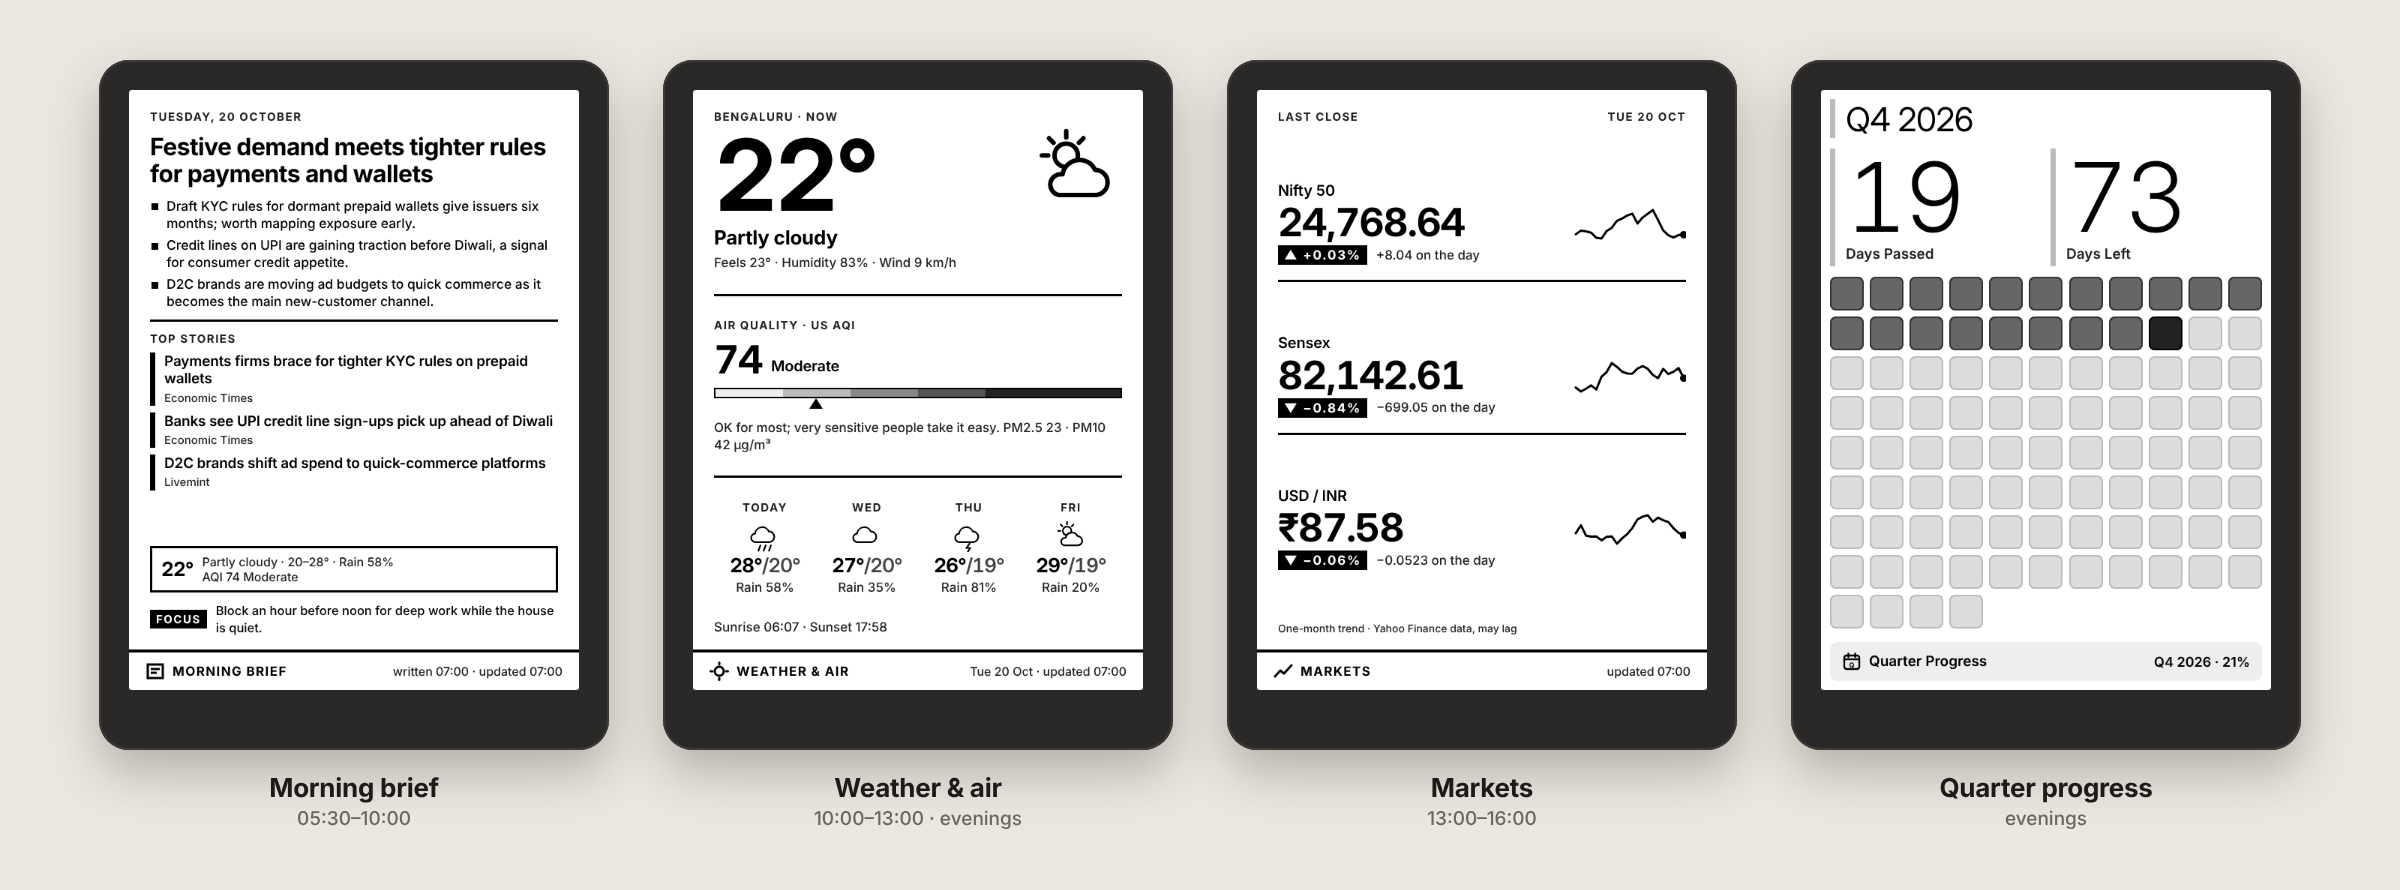
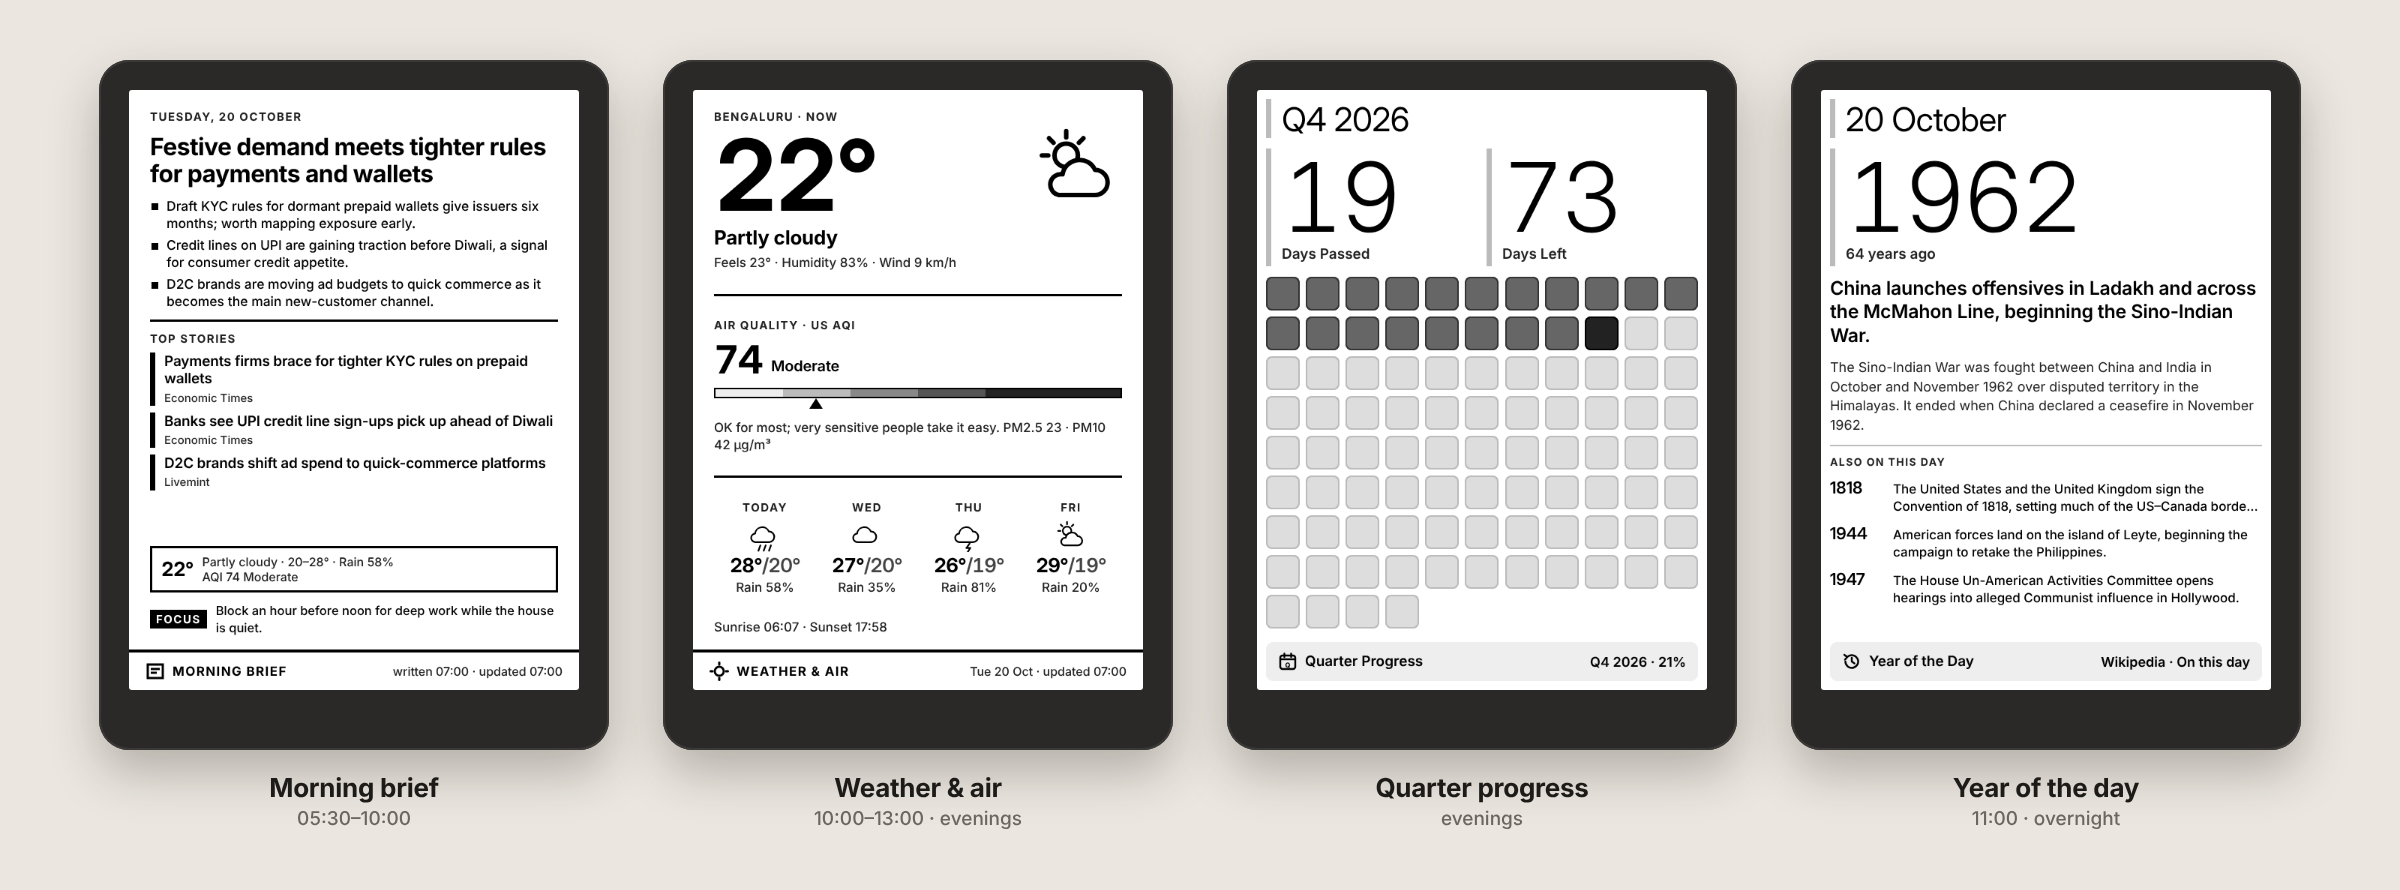
Add Year of the Day screen (TRMNL recipe equivalent, text version)
A year in history from Wikipedia's On this day feed (api.wikimedia.org, falling
back to en.wikipedia.org), picked once per day, with background and other years
for the same date. Optional 'prefer' keywords. Shows 11:xx and 23:xx; the 23:37
screen stays up overnight.

Shared clean-style classes (stripe, thin numbers, rounded title bar) moved to
screen.css; Quarter Progress renders identically. strip_html no longer leaves a
space before punctuation after inline tags.

Claude-Session: https://claude.ai/code/session_01GcKyYFsaBsPuGYxqe3XuTx

diff --git a/templates/screen.css b/templates/screen.css
@@ -48,3 +48,16 @@ html, body { width: var(--w); height: var(--h); background: var(--paper); color:
 .bullets { list-style: none; display: flex; flex-direction: column; gap: 9px; }
 .bullets li { position: relative; padding-left: 22px; font-size: 18.5px; font-weight: 500; line-height: 1.32; }
 .bullets li::before { content: ""; position: absolute; left: 2px; top: .5em; width: 9px; height: 9px; background: var(--ink); }
+
+/* "Clean" style, after TRMNL's recipes: thin stripes, big light numbers, rounded title bar.
+   Used by quarter_progress and year_of_the_day. */
+.layout--clean { padding: 12px 12px 0; gap: 14px; }
+.stripe { display: flex; gap: 14px; }
+.stripe::before { content: ""; width: 7px; flex: none; background: #bbb; }
+.heading { font: 400 44px/1.05 "Inter Display", Inter, sans-serif; letter-spacing: -.01em; padding: 4px 0 2px; }
+.value--thin { font: 300 128px/.92 "Inter Display", Inter, sans-serif; letter-spacing: -.035em;
+  font-variant-numeric: tabular-nums; padding-top: 6px; }
+.caption { font: 600 19px/1.2 Inter, sans-serif; color: #222; padding: 6px 0 4px; }
+.title_bar--pill { margin: 0 12px 12px; height: 52px; border-top: 0; border-radius: 10px; background: #e6e6e6; padding: 0 16px; }
+.title_bar--pill .title { font-size: 19px; font-weight: 600; text-transform: none; letter-spacing: 0; }
+.title_bar--pill .instance { font-size: 18px; font-weight: 600; color: #000; }

diff --git a/plugins/year_of_the_day/fetch.py b/plugins/year_of_the_day/fetch.py
@@ -1,0 +1,67 @@
+"""Year of the Day: one year in history picked from Wikipedia's "On this day" events for today's date.
+
+Equivalent of TRMNL's "Year of the Day" recipe (text mode). Data: Wikimedia's free feed API, no key.
+The pick is seeded by the date, so every refresh that day shows the same year.
+"""
+import random
+
+from core import fmt
+
+SOURCES = [
+    "https://api.wikimedia.org/feed/v1/wikipedia/en/onthisday/events/{mm}/{dd}",
+    "https://en.wikipedia.org/api/rest_v1/feed/onthisday/events/{mm}/{dd}",
+]
+
+
+def _year_label(y: int) -> str:
+    return f"{-y} BC" if y < 0 else str(y)
+
+
+def _clean(event: dict) -> dict | None:
+    year, text = event.get("year"), fmt.strip_html(event.get("text", ""))
+    if not isinstance(year, int) or not text:
+        return None
+    page = next((p for p in event.get("pages") or [] if p.get("extract")), {})
+    return {"year": year, "label": _year_label(year), "text": text,
+            "page": fmt.strip_html((page.get("titles") or {}).get("normalized") or page.get("title", "")),
+            "extract": fmt.strip_html(page.get("extract", ""), 460)}
+
+
+def _load(ctx) -> dict:
+    if ctx.demo:
+        return ctx.fixture("onthisday_events.json")
+    mm, dd = ctx.now.strftime("%m"), ctx.now.strftime("%d")
+    last = None
+    for url in SOURCES:
+        try:
+            return ctx.get_json(url.format(mm=mm, dd=dd), retries=1)
+        except Exception as e:  # try the next source
+            last = e
+    raise RuntimeError(f"On this day feed unavailable: {last}")
+
+
+def fetch(ctx):
+    events = [e for e in (_clean(x) for x in _load(ctx).get("events", [])) if e and e["year"] <= ctx.now.year]
+    if not events:
+        return {"available": False, "error": "no events for today"}
+    rng = random.Random(ctx.today)                  # same pick for the whole day
+    with_extract = [e for e in events if e["extract"]] or events
+    prefer = [w.lower() for w in ctx.settings.get("prefer") or []]
+    preferred = [e for e in with_extract if any(w in (e["text"] + " " + e["extract"]).lower() for w in prefer)]
+    main = rng.choice(preferred or with_extract)
+
+    rest = [e for e in events if e["year"] != main["year"]]
+    rng.shuffle(rest)
+    others, seen = [], {main["year"]}
+    for e in rest:
+        if e["year"] not in seen:
+            others.append(e)
+            seen.add(e["year"])
+        if len(others) == int(ctx.settings.get("also_count", 3)):
+            break
+    return {
+        "available": True,
+        "date_long": ctx.now.strftime("%-d %B"),
+        "main": {**main, "ago": ctx.now.year - main["year"] - (1 if main["year"] < 0 else 0)},  # no year 0
+        "others": sorted(others, key=lambda e: e["year"]),
+    }

diff --git a/core/render.py b/core/render.py
@@ -21,6 +21,7 @@ GLYPHS = {  # small title-bar icons
     "morning_brief": '<svg class="glyph" viewBox="0 0 26 26"><rect x="3" y="4" width="20" height="18" fill="none" stroke="#000" stroke-width="3"/><line x1="7" y1="10" x2="19" y2="10" stroke="#000" stroke-width="3"/><line x1="7" y1="15" x2="15" y2="15" stroke="#000" stroke-width="3"/></svg>',
     "weather_aqi": '<svg class="glyph" viewBox="0 0 26 26"><circle cx="13" cy="13" r="6" fill="none" stroke="#000" stroke-width="3"/><g stroke="#000" stroke-width="3" stroke-linecap="round"><line x1="13" y1="1.5" x2="13" y2="4"/><line x1="13" y1="22" x2="13" y2="24.5"/><line x1="1.5" y1="13" x2="4" y2="13"/><line x1="22" y1="13" x2="24.5" y2="13"/></g></svg>',
     "quarter_progress": '<svg class="glyph" viewBox="0 0 26 26"><rect x="3" y="5" width="20" height="18" rx="3" fill="none" stroke="#000" stroke-width="2.4"/><line x1="3" y1="10" x2="23" y2="10" stroke="#000" stroke-width="2.4"/><line x1="8.5" y1="2.5" x2="8.5" y2="7" stroke="#000" stroke-width="2.4" stroke-linecap="round"/><line x1="17.5" y1="2.5" x2="17.5" y2="7" stroke="#000" stroke-width="2.4" stroke-linecap="round"/><text x="13" y="20.6" text-anchor="middle" font-family="Inter" font-weight="700" font-size="9">Q</text></svg>',
+    "year_of_the_day": '<svg class="glyph" viewBox="0 0 26 26"><path d="M4.5 13a8.5 8.5 0 1 0 2.5-6" fill="none" stroke="#000" stroke-width="2.4" stroke-linecap="round"/><polyline points="3,4 7,7 4,10.5" fill="none" stroke="#000" stroke-width="2.4" stroke-linecap="round" stroke-linejoin="round"/><polyline points="13,8 13,13 16.5,15.5" fill="none" stroke="#000" stroke-width="2.4" stroke-linecap="round" stroke-linejoin="round"/></svg>',
     "markets": '<svg class="glyph" viewBox="0 0 26 26"><polyline points="2,20 9,12 14,16 24,5" fill="none" stroke="#000" stroke-width="3" stroke-linejoin="round" stroke-linecap="round"/></svg>',
 }
 

diff --git a/tools/docs_images.py b/tools/docs_images.py
@@ -23,7 +23,9 @@ TMP = ROOT / "build" / "docs"
 SCREENS = [("morning_brief", "Morning brief", "05:30–10:00"),
            ("weather_aqi", "Weather & air", "10:00–13:00 · evenings"),
            ("markets", "Markets", "13:00–16:00"),
-           ("quarter_progress", "Quarter progress", "evenings")]
+           ("quarter_progress", "Quarter progress", "evenings"),
+           ("year_of_the_day", "Year of the day", "11:00 · overnight")]
+HERO = ["morning_brief", "weather_aqi", "quarter_progress", "year_of_the_day"]  # 4 fit the README width
 
 
 def run_build(out: str, at: str, extra_env: dict | None = None) -> Path:
@@ -84,7 +86,7 @@ def main() -> None:
     screens = {name: site / "screens" / f"{name}.png" for name, _, _ in SCREENS}
 
     # 1. Hero: three devices side by side
-    shoot(page("".join(device(screens[n], t, s, scale=0.75) for n, t, s in SCREENS), gap=54, pad=60),
+    shoot(page("".join(device(screens[n], t, s, scale=0.75) for n, t, s in SCREENS if n in HERO), gap=54, pad=60),
           OUT / "hero.png", 2400)
 
     # 2. Raw screens exactly as the Kindle gets them (600x800, 16 greys)

diff --git a/core/fmt.py b/core/fmt.py
@@ -18,7 +18,8 @@ def indian(n: float, decimals: int = 2) -> str:
 
 
 def strip_html(text: str, limit: int = 0) -> str:
-    text = html.unescape(re.sub(r"<[^>]+>", " ", text or ""))
+    text = re.sub(r"<(?:br|/?p|/?div|/?li|/?h\d)\b[^>]*>", " ", text or "", flags=re.I)  # block tags -> space
+    text = html.unescape(re.sub(r"<[^>]+>", "", text))                                       # inline tags -> nothing
     text = re.sub(r"\s+", " ", text).strip()
     if limit and len(text) > limit:
         text = text[: limit - 1].rsplit(" ", 1)[0] + "…"

diff --git a/core/context.py b/core/context.py
@@ -14,7 +14,7 @@ import requests
 import yaml
 
 ROOT = Path(__file__).resolve().parent.parent
-UA = "kindle-hub/1.0 (+https://github.com)"
+UA = "kindle-hub/1.0 (+https://github.com/thirstyrhino/kindle-hub)"  # Wikimedia asks for a contact URL
 PLACEHOLDER = "YOUR-GITHUB-USERNAME"
 
 

diff --git a/README.md b/README.md
@@ -5,7 +5,7 @@ An AI-written brief arrives as an ebook every morning, and the screen rotates th
 weather, air quality and markets during the day. It runs entirely on GitHub's free tier:
 nothing to host, nothing to keep switched on at home.
 
-![Four Kindle screens: the morning brief, weather and air quality, markets, and quarter progress](docs/images/hero.png)
+![Four Kindle screens: the morning brief, weather and air quality, quarter progress, and year of the day](docs/images/hero.png)
 
 <sub>Screens shown with sample data. They are rendered at the Kindle's exact resolution (600×800) in 16 shades of grey.</sub>
 
@@ -18,7 +18,8 @@ nothing to host, nothing to keep switched on at home.
   markets. KOReader downloads it as an ebook with one tap.
 - **A dashboard that changes through the day.** Leave the Kindle on a stand and it shows the
   brief in the morning, weather and air quality at midday, markets in the afternoon, and the
-  forecast and quarter progress in the evening. It updates every hour.
+  forecast and quarter progress in the evening, and a year from history overnight. It updates
+  every hour.
 - **₹0 to run.** GitHub Actions builds everything on a schedule and GitHub Pages hosts it. The
   AI uses OpenRouter's free models (one call a day). Weather and air quality come from
   Open-Meteo, which needs no key.
@@ -43,6 +44,14 @@ nothing to host, nothing to keep switched on at home.
 <tr>
 <td valign="top">Nifty 50, Sensex and USD/INR with the day's move and a one-month trend line.</td>
 <td valign="top">One square per day of the quarter (passed, today, still to come), with days passed and days left. Same clean look as TRMNL's <a href="https://trmnl.com/recipes/quarter-progress-212805">Quarter Progress</a> recipe, set out for a portrait screen. Switch to April–March financial-year quarters in its <code>plugin.yaml</code>.</td>
+</tr>
+<tr>
+<td align="center"><img src="docs/images/screen-year_of_the_day.png" width="300" alt="Year of the day screen"><br><b>Year of the day</b><br><sub>11:00–12:00 and 23:00 (stays up overnight)</sub></td>
+<td align="center"><img src="docs/images/screen-countdown-example.png" width="300" alt="Example custom countdown screen"><br><b>Your own screen</b><br><sub>a countdown, in three small files</sub></td>
+</tr>
+<tr>
+<td valign="top">A year in history picked from Wikipedia's "On this day" events for today's date: what happened, a short background, and a few other years for the same date. Like TRMNL's <a href="https://trmnl.com/recipes/year-of-the-day-148248">Year of the Day</a> recipe (text version). Set <code>prefer: ["India"]</code> in its <code>plugin.yaml</code> to favour events you care about.</td>
+<td valign="top">Every screen is a folder you can copy. See <a href="#build-your-own-screen">Build your own screen</a>.</td>
 </tr>
 </table>
 
